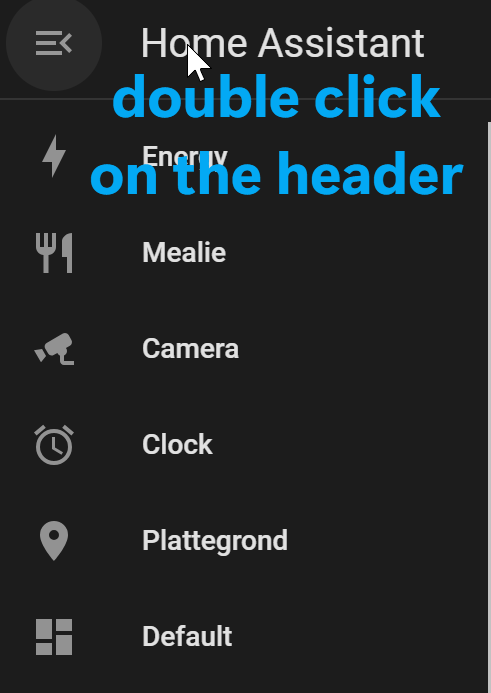
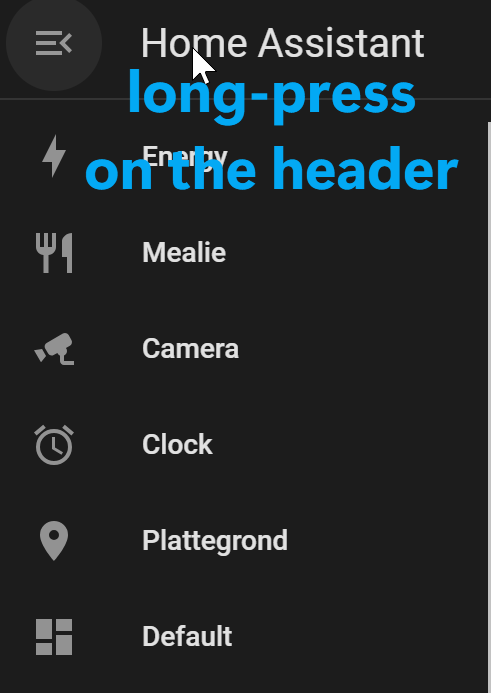
side menu editing

Changed region(s): [[0.1527, 0.2121, 0.947, 0.303], [0.2138, 0.0606, 0.8859, 0.1818]]

diff --git a/homeassistant/homeassistant_tips_tricks.md b/homeassistant/homeassistant_tips_tricks.md
@@ -21,7 +21,7 @@ But you can click on the dialog header text to enlarge this dialog!
 ---
 ## Dashboard side menu rearrange
 
-You can rearrange the items in the side menu by open the side menu, double-click on the side menu header.\
+You can rearrange the items in the side menu by open the side menu, long-press on the side menu header.\
 Now you can drag and drop the items or remove them by clicking on the cross.\
 Click on the `done` button to confirm.
 
